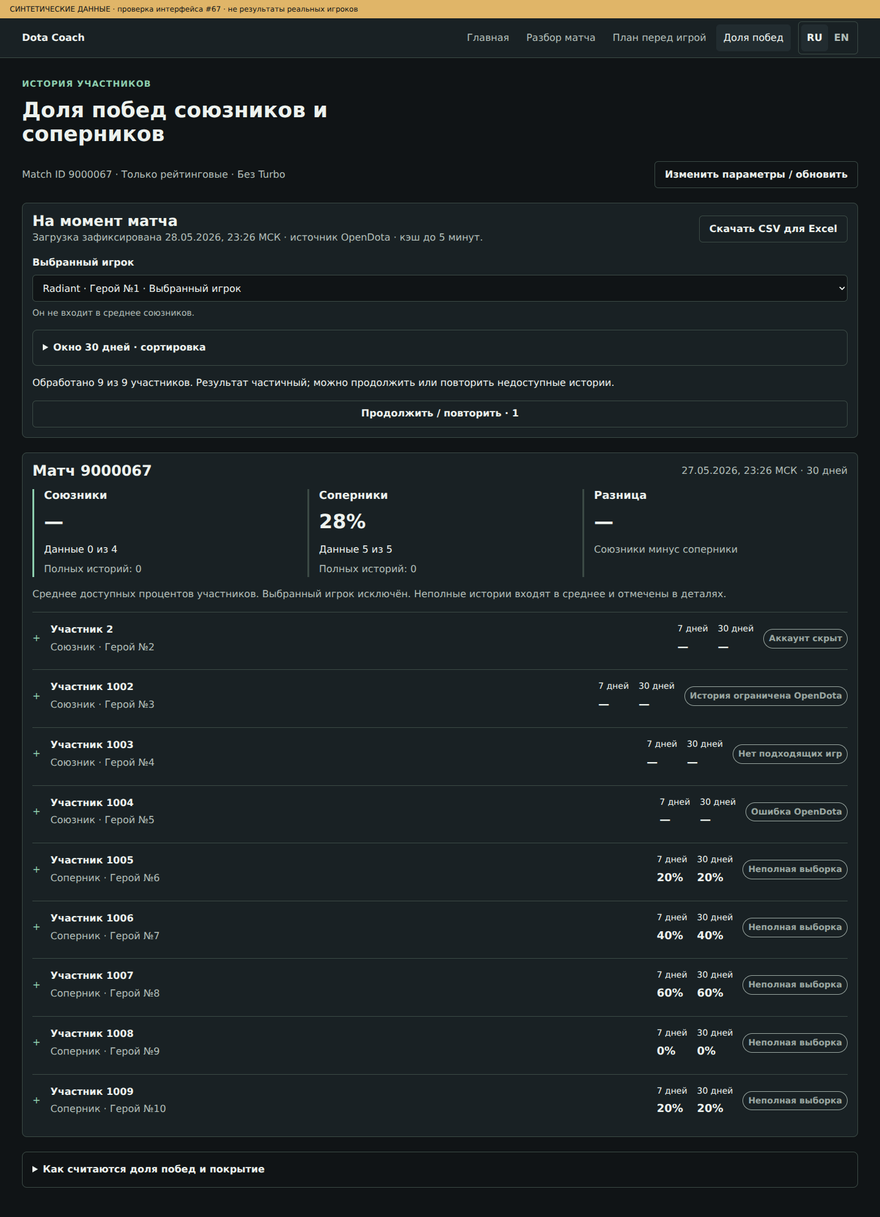
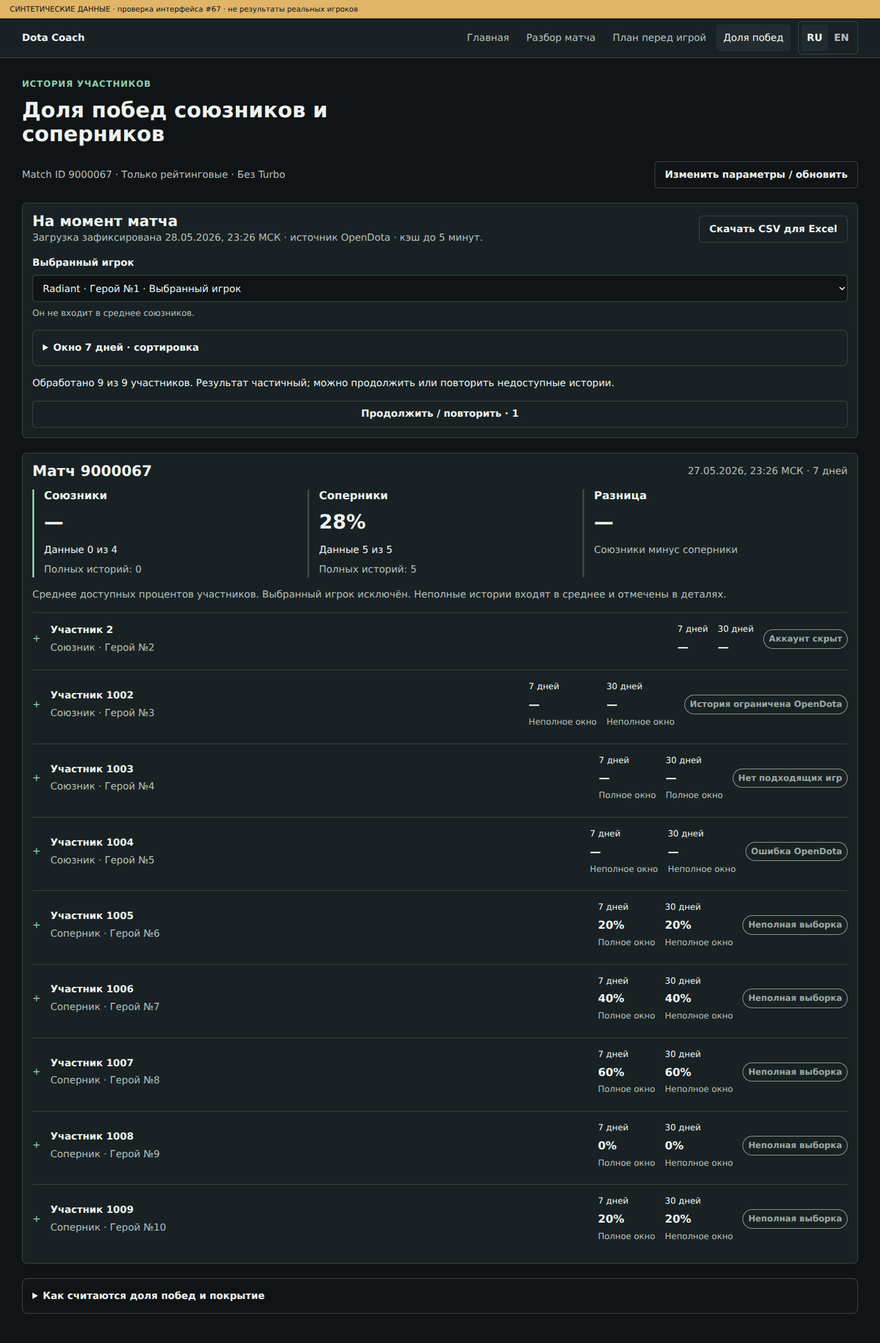
fix: preserve winrate samples on failed retries and label both windows (#67)

diff --git a/src/lib/dota/winrates/participantUpdate.test.ts b/src/lib/dota/winrates/participantUpdate.test.ts
@@ -1,0 +1,73 @@
+import assert from 'node:assert/strict';
+import test from 'node:test';
+import { encounters, groupMean } from './calculation';
+import { applyParticipantUpdate } from './participantUpdate';
+import { canRetry, exportCsv } from './presentation';
+import { fixturePlan, fixtureResult, FIXTURE_TIME } from './winrates.fixture';
+import type { Failure, ParticipantResult } from './types';
+
+function failed(code: Failure): ParticipantResult {
+  const result = fixtureResult(1001, 9000067, FIXTURE_TIME - 86400, 0, 0);
+  result.status = code;
+  result.history.stop = code;
+  result.fetchedAt += 120;
+  for (const window of [7, 30] as const) Object.assign(result.samples[window], { complete: false, limitedBy: code });
+  return result;
+}
+
+test('a retry without observations retains 30/100, real zero wins, freshness and the side mean', () => {
+  for (const wins of [0, 30]) for (const code of ['provider_error', 'timeout', 'rate_limit', 'unavailable'] as const) {
+    const previous = fixtureResult(1001, 9000067, FIXTURE_TIME - 86400, wins, 100);
+    const updated = applyParticipantUpdate(previous, failed(code));
+    assert.deepEqual(updated, { ...previous, refreshError: code });
+    assert.equal(updated.samples[30].wins, wins); assert.equal(updated.samples[30].games, 100);
+    assert.equal(updated.samples[30].rate, wins); assert.equal(updated.fetchedAt, previous.fetchedAt);
+    assert.equal(updated.history.fetchedAt, previous.history.fetchedAt); assert.equal(updated.expiresAt, previous.expiresAt);
+    assert.equal(canRetry(updated), true);
+    const plan = fixturePlan(); const rows = encounters(plan, 0);
+    const results = { '9000067:1001': updated };
+    assert.deepEqual(groupMean(rows, results, 30, 'with'), { mean: wins, available: 1, expected: 4, complete: 1 });
+    const csv = exportCsv(plan, rows, results, 30);
+    assert.match(csv, /Ошибка обновления/); assert.match(csv, /"100"/);
+  }
+});
+
+test('a successful retry replaces preserved data and clears its refresh error', () => {
+  const previous = fixtureResult(1001, 9000067, FIXTURE_TIME - 86400, 30, 100);
+  const retained = applyParticipantUpdate(previous, failed('timeout'));
+  const successful = fixtureResult(1001, 9000067, FIXTURE_TIME - 86400, 60, 120);
+  successful.fetchedAt += 180;
+  const updated = applyParticipantUpdate(retained, successful);
+  assert.deepEqual(updated, successful); assert.equal(updated.refreshError, undefined);
+  assert.equal(updated.samples[30].rate, 50); assert.equal(updated.samples[30].games, 120);
+  assert.equal(updated.fetchedAt, successful.fetchedAt); assert.equal(canRetry(updated), false);
+  const empty = fixtureResult(1001, 9000067, FIXTURE_TIME - 86400, 0, 0);
+  assert.deepEqual(applyParticipantUpdate(retained, empty), empty, 'a confirmed empty result is an update, not a temporary failure');
+  const restricted = { ...failed('unavailable'), status: 'private' as const };
+  assert.deepEqual(applyParticipantUpdate(retained, restricted), restricted, 'a newly restricted history must not be presented as a temporary update failure');
+});
+
+test('a confirmed empty sample also keeps its coverage and source time after a failed retry', () => {
+  const previous = fixtureResult(1001, 9000067, FIXTURE_TIME - 86400, 0, 0);
+  const updated = applyParticipantUpdate(previous, failed('timeout'));
+  assert.deepEqual(updated, { ...previous, refreshError: 'timeout' });
+  assert.equal(updated.status, 'empty'); assert.equal(updated.samples[30].complete, true);
+  assert.equal(updated.samples[30].rate, null); assert.equal(canRetry(updated), true);
+});
+
+test('new observations replace the previous sample even if a later history page failed', () => {
+  const previous = fixtureResult(1001, 9000067, FIXTURE_TIME - 86400, 30, 100);
+  const next = fixtureResult(1001, 9000067, FIXTURE_TIME - 86400, 40, 110);
+  next.history.stop = 'timeout'; next.samples[30].complete = false; next.samples[30].limitedBy = 'timeout';
+  assert.deepEqual(applyParticipantUpdate(previous, next), next);
+});
+
+test('data is never retained for another participant, match, basis or calculation time', () => {
+  const previous = fixtureResult(1001, 9000067, FIXTURE_TIME - 86400, 30, 100);
+  const next = failed('provider_error');
+  assert.deepEqual(applyParticipantUpdate(undefined, next), next);
+  for (const changed of [{ accountId: 1002 }, { matchId: 9000068 }, { basis: 'now' as const }, { asOf: previous.asOf + 1 }, { capturedAt: previous.capturedAt + 1 }]) {
+    const other = { ...next, ...changed };
+    assert.deepEqual(applyParticipantUpdate(previous, other), other);
+  }
+});

diff --git a/src/lib/dota/winrates/presentation.ts b/src/lib/dota/winrates/presentation.ts
@@ -1,5 +1,5 @@
 import { groupMean, resultFor, seriesMean, uniquePlayers } from './calculation';
-import type { Encounter, ParticipantResult, Plan, Results, Sample, WindowDays } from './types';
+import type { Encounter, ParticipantState, Plan, Results, Sample, WindowDays } from './types';
 
 export const percent = (value: number | null | undefined) => value == null ? '—' : `${value.toLocaleString('ru-RU', { maximumFractionDigits: 1 })}%`;
 export const points = (a: number | null, b: number | null) => a === null || b === null ? '—' : `${a - b > 0 ? '+' : ''}${(a - b).toLocaleString('ru-RU', { maximumFractionDigits: 1 })} п.п.`;
@@ -13,7 +13,7 @@ export const statusText: Record<string, string> = {
 };
 export const coverageText = (value: Sample) => value.complete ? 'Окно доступной истории покрыто' : `Неполная выборка: ${statusText[value.limitedBy ?? 'unavailable'] ?? statusText.unavailable}`;
 export const rowStatus = (row: Encounter, results: Results) => statusText[row.player.missing ?? resultFor(row, results)?.status ?? 'pending'];
-export const canRetry = (result?: ParticipantResult) => !result || ['provider_error', 'rate_limit', 'timeout', 'unavailable'].includes(result.status) || ['provider_error', 'rate_limit', 'timeout'].includes(result.history.stop);
+export const canRetry = (result?: ParticipantState) => !result || Boolean(result.refreshError) || ['provider_error', 'rate_limit', 'timeout', 'unavailable'].includes(result.status) || ['provider_error', 'rate_limit', 'timeout'].includes(result.history.stop);
 
 /** Excel-compatible text, including neutralisation of formula prefixes after whitespace/control chars. */
 export function csvCell(value: unknown): string {
@@ -46,7 +46,7 @@ export function exportCsv(plan: Plan, rows: Encounter[], results: Results, days:
   table.push([], ['Матч', 'Время матча (МСК)', 'Сторона', 'Account ID', 'Имя', 'Герой', 'Состояние', 'Расчёт на (МСК)', 'Данные получены (МСК)', 'Кэш до (МСК)',
     '7 дней, %', 'Победы 7', 'Игры 7', 'Граница 7 (МСК)', 'Первая игра 7 (МСК)', 'Последняя игра 7 (МСК)', 'Покрытие 7',
     '30 дней, %', 'Победы 30', 'Игры 30', 'Граница 30 (МСК)', 'Первая игра 30 (МСК)', 'Последняя игра 30 (МСК)', 'Покрытие 30',
-    'Вместе, всего', 'Против, всего', 'Match ID вместе', 'Match ID против', 'Просмотрено записей', 'История до (МСК)']);
+    'Вместе, всего', 'Против, всего', 'Match ID вместе', 'Match ID против', 'Просмотрено записей', 'История до (МСК)', 'Ошибка обновления']);
   for (const row of rows) {
     const result = resultFor(row, results);
     const person = people.find((item) => item.accountId === row.player.accountId);
@@ -55,7 +55,7 @@ export function exportCsv(plan: Plan, rows: Encounter[], results: Results, days:
       return value ? [value.rate, value.wins, value.games, dateMsk(value.from), dateMsk(value.first), dateMsk(value.last), coverageText(value)] : Array(7).fill('');
     };
     table.push([row.matchId, dateMsk(row.startTime), row.side === 'with' ? 'Союзник' : 'Соперник', row.player.accountId, result?.name ?? row.player.name, row.player.heroName, rowStatus(row, results), dateMsk(result?.asOf), dateMsk(result?.fetchedAt), dateMsk(result?.expiresAt),
-      ...windowCells(7), ...windowCells(30), person?.with.length, person?.against.length, person?.with.join(', '), person?.against.join(', '), result?.history.scanned, dateMsk(result?.history.oldest)]);
+      ...windowCells(7), ...windowCells(30), person?.with.length, person?.against.length, person?.with.join(', '), person?.against.join(', '), result?.history.scanned, dateMsk(result?.history.oldest), result?.refreshError ? statusText[result.refreshError] : '']);
   }
   return '\uFEFF' + table.map((cells) => cells.map(csvCell).join(';')).join('\r\n') + '\r\n';
 }

diff --git a/src/components/winrates/WinrateReport.tsx b/src/components/winrates/WinrateReport.tsx
@@ -42,15 +42,23 @@ export function WinrateReport({ plan, rows, results, days }: { plan: Plan; rows:
             {matchRows.map((row) => {
               const result = resultFor(row, results);
               const person = people.find((item) => item.accountId === row.player.accountId);
+              const complete = result && result.samples[7].complete && result.samples[30].complete;
               return <details key={row.key} className={styles.participant}>
                 <summary>
                   <span className={styles.identity}><strong>{result?.name ?? row.player.name ?? row.player.heroName}</strong><span className="muted">{row.side === 'with' ? 'Союзник' : 'Соперник'} · {row.player.heroName}</span></span>
-                  <span className={styles.miniStats}><span>7 дней <strong>{percent(result?.samples[7].rate)}</strong></span><span>30 дней <strong>{percent(result?.samples[30].rate)}</strong></span></span>
-                  <Badge tone={result?.status === 'ready' && result.samples[30].complete ? 'info' : 'unknown'}>{result?.status === 'ready' && !result.samples[days].complete ? 'Неполная выборка' : rowStatus(row, results)}</Badge>
+                  <span className={styles.miniStats}>{([7, 30] as const).map((window) => <span key={window}>
+                    <span>{window} дней</span><strong>{percent(result?.samples[window].rate)}</strong>
+                    {result ? <span className="muted" title={coverageText(result.samples[window])}>{result.samples[window].complete ? 'Полное окно' : 'Неполное окно'}</span> : null}
+                  </span>)}</span>
+                  <span className={styles.participantStatus}>
+                    <Badge tone={result?.status === 'ready' && complete ? 'info' : 'unknown'}>{result?.status === 'ready' && !complete ? 'Неполная выборка' : rowStatus(row, results)}</Badge>
+                    {result?.refreshError ? <Badge tone="warning">Ошибка обновления</Badge> : null}
+                  </span>
                 </summary>
                 <div className={styles.participantBody}>
                   <p>{row.player.accountId ? `Account ID ${row.player.accountId}` : rowStatus(row, results)} · Вместе {person?.with.length ?? '—'} / против {person?.against.length ?? '—'}</p>
                   {result ? <>
+                    {result.refreshError ? <p role="status">{statusText[result.refreshError]}. Показана ранее полученная выборка; время её получения сохранено. Повторите обновление позже.</p> : null}
                     {result.status === 'private' ? <p>OpenDota ограничил историю: она закрыта или источнику не удалось её обновить. Причину источник не уточнил.</p> : null}
                     <div className={styles.samples}>{([7, 30] as const).map((window) => {
                       const value = result.samples[window];

diff --git a/src/components/winrates/useWinrates.ts b/src/components/winrates/useWinrates.ts
@@ -2,6 +2,7 @@
 import { useEffect, useRef, useState } from 'react';
 import { encounters, resultKey, sample } from '@/lib/dota/winrates/calculation';
 import { canRetry } from '@/lib/dota/winrates/presentation';
+import { applyParticipantUpdate } from '@/lib/dota/winrates/participantUpdate';
 import type { Encounter, Failure, History, MatchEntry, ParticipantResult, Plan, Query, Results } from '@/lib/dota/winrates/types';
 
 async function post<T>(path: string, body: unknown, signal: AbortSignal, timeout: number): Promise<T> {
@@ -65,7 +66,7 @@ export function useWinrates() {
         } catch (failure) { if (request.signal.aborted) return; result = failedResult(row, nextPlan, failure); }
         if (generation.current !== version || request.signal.aborted) return;
         const key = resultKey(row.matchId, row.player.accountId!);
-        setResults((current) => ({ ...current, [key]: result }));
+        setResults((current) => ({ ...current, [key]: applyParticipantUpdate(current[key], result) }));
         if (result.status === 'rate_limit' || result.history.stop === 'rate_limit') { limited = true; setError('rate_limit'); }
       }
     }

diff --git a/src/lib/dota/winrates/participantUpdate.ts b/src/lib/dota/winrates/participantUpdate.ts
@@ -1,0 +1,14 @@
+import type { ParticipantResult, ParticipantState } from './types';
+
+export function applyParticipantUpdate(previous: ParticipantState | undefined, next: ParticipantResult): ParticipantState {
+  const error = (['provider_error', 'rate_limit', 'timeout', 'unavailable'] as const).find((code) => code === next.status);
+  const hasGames = (result: ParticipantResult) => result.samples[7].games > 0 || result.samples[30].games > 0;
+  // The hook also clears state on a new plan, filter change or player selection.
+  const sameCalculation = previous && previous.accountId === next.accountId && previous.matchId === next.matchId
+    && previous.basis === next.basis && previous.asOf === next.asOf && previous.capturedAt === next.capturedAt;
+  const received = previous && (hasGames(previous) || previous.status === 'empty' && (previous.samples[7].complete || previous.samples[30].complete));
+  if (previous && sameCalculation && error && received && !hasGames(next)) {
+    return { ...previous, refreshError: error };
+  }
+  return next;
+}

diff --git a/src/components/winrates/winrates.module.css b/src/components/winrates/winrates.module.css
@@ -22,6 +22,7 @@
 .miniStats { display: flex; gap: var(--space-4); }
 .miniStats > span { display: grid; gap: var(--space-1); font-size: var(--font-size-sm); }
 .miniStats strong { font-size: var(--font-size-lg); }
+.participantStatus { display: flex; flex-wrap: wrap; gap: var(--space-2); }
 .participantBody { display: grid; gap: var(--space-4); padding: 0 0 var(--space-4) var(--space-6); overflow-wrap: anywhere; }
 .samples { display: grid; grid-template-columns: repeat(2, minmax(0, 1fr)); gap: var(--space-6); }
 .samples h3 { font-size: var(--font-size-lg); }
@@ -38,6 +39,7 @@
   .comparison > :last-child { grid-column: 1 / -1; }
   .metric { padding-left: var(--space-2); }
   .participant summary { gap: var(--space-3); }
+  .miniStats { flex-basis: 100%; }
   .participant summary > :last-child { flex-basis: 100%; }
   .participantBody { padding-left: 0; }
   .people th, .people td { padding: var(--space-3) var(--space-1); }

diff --git a/src/lib/dota/winrates/types.ts b/src/lib/dota/winrates/types.ts
@@ -31,5 +31,7 @@ export type Plan = {
 };
 export type Side = 'with' | 'against';
 export type Encounter = { key: string; matchId: number; startTime: number; player: RosterPlayer; side: Side };
-export type Results = Record<string, ParticipantResult>;
+// Client state keeps refresh failures separate from the retained source observations.
+export type ParticipantState = ParticipantResult & { refreshError?: Failure };
+export type Results = Record<string, ParticipantState>;
 export type Sort = 'side' | 'rate_desc' | 'rate_asc' | 'name';

diff --git a/docs/WINRATES.md b/docs/WINRATES.md
@@ -30,6 +30,8 @@
 
 Анонимный участник, ограниченная провайдером история, пустая доступная история, неопределённая доступность и ошибка провайдера — разные состояния. Пустой ответ без подтверждения доступности не объявляется закрытым или полным. История с подходящими играми и ограниченным покрытием даёт процент с пометкой неполной выборки. Никаких подстановок 0% или 50%.
 
+Полнота каждого из двух отображаемых окон подписана рядом с его процентом. Переключатель 7/30 дней выбирает окно средних и сортировки; он не скрывает неполноту другого окна.
+
 ## Загрузка, кэш и отмена
 
 Первая серия ограничена тремя последними подходящими матчами за 7/10/30 дней; найденное количество и ограничение видны. Кнопка следующих трёх матчей продолжает зафиксированный список Match ID и сохраняет `capturedAt`; составы с ошибкой можно повторить отдельно. Проверяется принадлежность выбранного игрока и соответствие каждого добавляемого матча периоду/режимам. Составы и истории не собираются одним многоминутным запросом. План/партия составов ограничены 18 секундами, отдельный участник — 14 секундами; клиент получает результаты постепенно двумя запросами одновременно и делает паузу через 45 секунд. Продолжение/повтор доступны явно. Обновление, смена игрока или фильтров отменяют клиентские запросы и меняют поколение загрузки, поэтому старый ответ не попадёт в новую группу.
@@ -39,6 +41,8 @@
 Кэш исходных ресурсов учитывает путь, игрока, сортировку, страницу и фильтры. Ключ вычисленного результата дополнительно включает Match ID, игрока, 7/30 дней, фильтры, режим и точный `asOf`; исторические и текущие результаты разделены. В результате видны время получения самых ранних использованных данных, время расчёта и истечение кэша. Закрытые/ошибочные/ограниченные результаты не сохраняются в кэш расчётов; успешные исходные ответы живут не более TTL. Кэш теряется при рестарте и не сохраняется в браузере.
 
 ## Представление и экспорт
+
+При повторе с неизменными параметрами временная ошибка без новых наблюдений сохраняет полученную выборку, её покрытие и время получения. Ошибка обновления показывается отдельно, в том числе в CSV; сохранённый процент продолжает входить в среднее стороны. Успешный ответ заменяет результат и снимает ошибку. Новая загрузка, смена фильтров или игрока очищает прежнее состояние.
 
 Вверху — средние, разница и покрытие; ниже — составы с раскрываемыми выборками 7/30 дней, серия и уникальные участники. Сортировка меняет порядок строк, не веса. CSV экспортирует текущий результат и текущую сортировку, включает недоступные/ожидающие строки и причины, фильтры, оба окна, выборки, итоговые счётчики и моменты расчёта. UTF-8 BOM, разделитель `;`, CRLF, экранирование кавычек и формул поддерживают открытие в Excel без новой зависимости.
 

diff --git a/docs/verification/winrates/README.md b/docs/verification/winrates/README.md
@@ -4,7 +4,7 @@
 
 ## Автоматические проверки
 
-- `npm run test:unit` — 150 тестов: новые расчёты, границы времени, стороны, пустые/ограниченные/ошибочные истории, дубликаты, средние, CSV, кэш/дедупликация/отмена/429, серия и HTTP-валидация; существующие регрессии #66 сохранены.
+- `npm run test:unit` — 155 тестов: новые расчёты, границы времени, стороны, пустые/ограниченные/ошибочные истории, дубликаты, средние, CSV, кэш/дедупликация/отмена/429, серия и HTTP-валидация; существующие регрессии #66 сохранены.
 - `npm run test:combat` — 33 теста.
 - `npm run test:benchmarks` — 8 тестов.
 - `npm run check:design` — guard и 6 тестов.
@@ -27,6 +27,12 @@ START_SERVER=1 node scripts/verify-winrates.mjs
 
 Повторная проверка выявила автоматический выбор первого анонимного участника при отсутствующем Account ID. Браузерная регрессия сначала воспроизвела ошибку: выбран слот `1` вместо пустого значения. После исправления выбор остаётся пустым и запросы историй не начинаются до действия пользователя; предвыбор совпавшего аккаунта из post-match по-прежнему проходит. Production-сборка и весь сценарий браузерной проверки повторно прошли.
 
+Регрессии замечаний ревью PR #69:
+
+- Повтор с ошибкой в ответе API и затем с HTTP 503 сохраняет обе выборки 30/100, исходное время и среднее союзников. Ошибка обновления видна отдельно и попадает в CSV. Успешный повтор обновляет результат до 40/100 и время получения, снимает ошибку и обновляет среднее стороны.
+- Unit-тесты дополнительно проверяют 0 реальных побед, подтверждённую пустую выборку, timeout/429, новый частичный результат и запрет переноса выборки между игроками, матчами и моментами расчёта.
+- При полном окне 7 дней и ограниченном 300 записями окне 30 дней обе пометки остаются корректными при переключении средних 7 → 30 → 7. Проверены ширины 320/390, читаемость имени и отсутствие горизонтального переполнения.
+
 Дополнительно прошёл существующий `scripts/verify-post-match-v2.mjs` на ширинах 320–2560: сохранение челленджа, повторные/неполные матчи, смена игрока, ошибки, доступность и новая ссылка с Match ID/Account ID. Старые изображения #66 не перезаписаны; production-сборка проверена повторно после изменений страницы #67.
 
 Все изображения имеют явную плашку «СИНТЕТИЧЕСКИЕ ДАННЫЕ»:
@@ -34,6 +40,7 @@ START_SERVER=1 node scripts/verify-winrates.mjs
 - [Desktop](ready-1440.png), [mobile](ready-390.png), [раскрытая выборка](details-mobile.png).
 - [Частичный результат desktop](partial-desktop.png), [mobile](partial-mobile.png), [серия](series-desktop.png).
 - [Начало](initial-desktop.png), [загрузка](loading.png), [пустая серия](empty.png), [ошибка](error.png).
+- [Сохранённая выборка после ошибки обновления, mobile](refresh-failure-mobile.png).
 
 ## Отдельная живая проверка OpenDota
 
